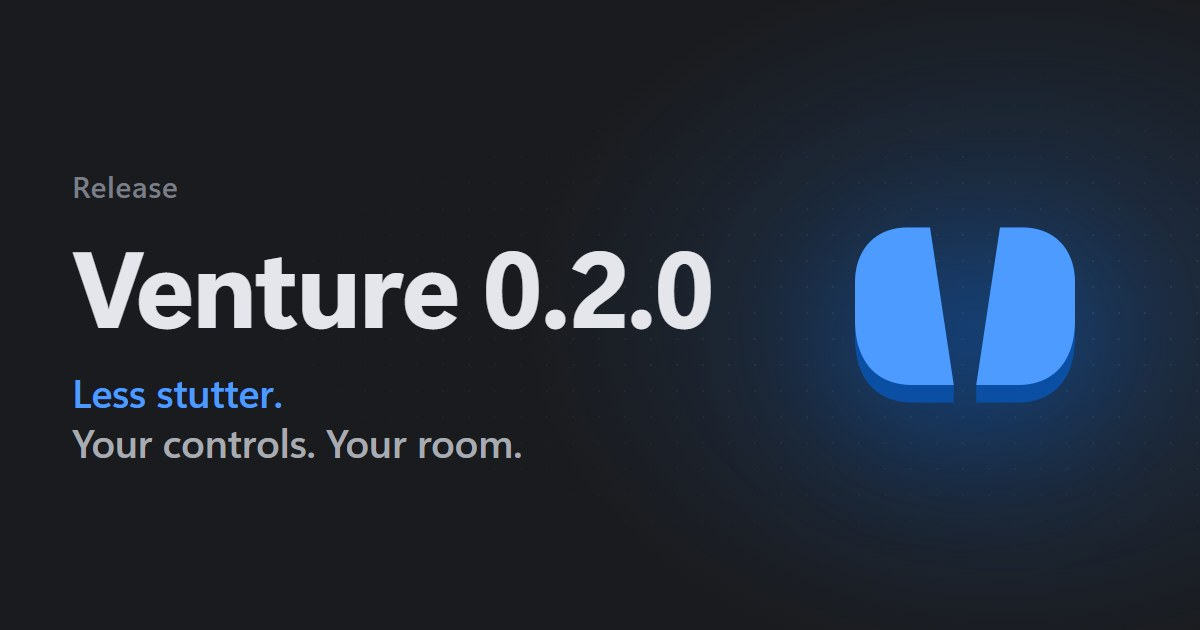
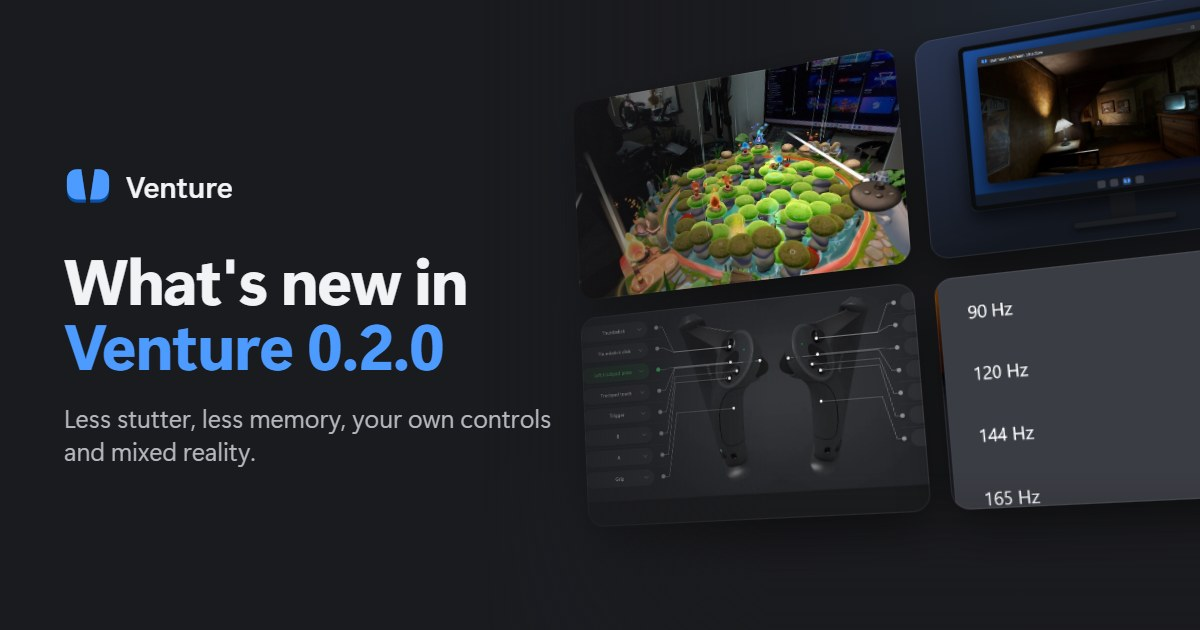
Blog: 0.2.0 share image shows mixed reality, the desktop mirror, the Controls page and per-game frame rate

diff --git a/blog/0-2-0/index.html b/blog/0-2-0/index.html
@@ -15,7 +15,7 @@
   <meta property="og:image" content="https://venture-emu.org/blog/0-2-0/media/og.jpg">
   <meta property="og:image:width" content="1200">
   <meta property="og:image:height" content="630">
-  <meta property="og:image:alt" content="Venture 0.2.0: the launcher's new Controls page.">
+  <meta property="og:image:alt" content="Venture 0.2.0: mixed reality, the desktop mirror, the Controls page and per-game frame rate.">
   <meta name="twitter:card" content="summary_large_image">
   <script type="application/ld+json">
   {
